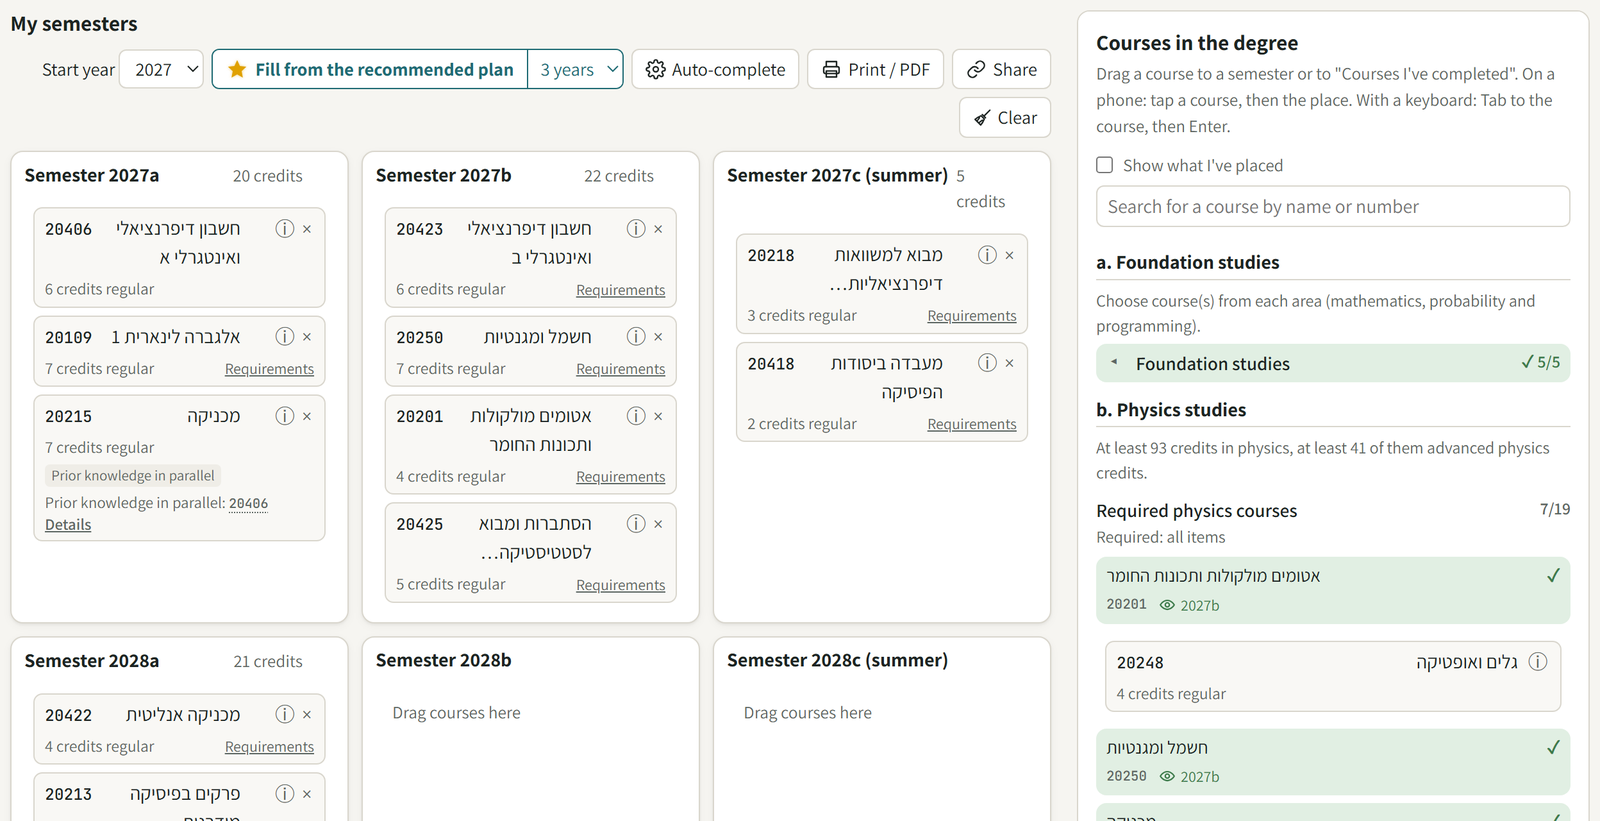
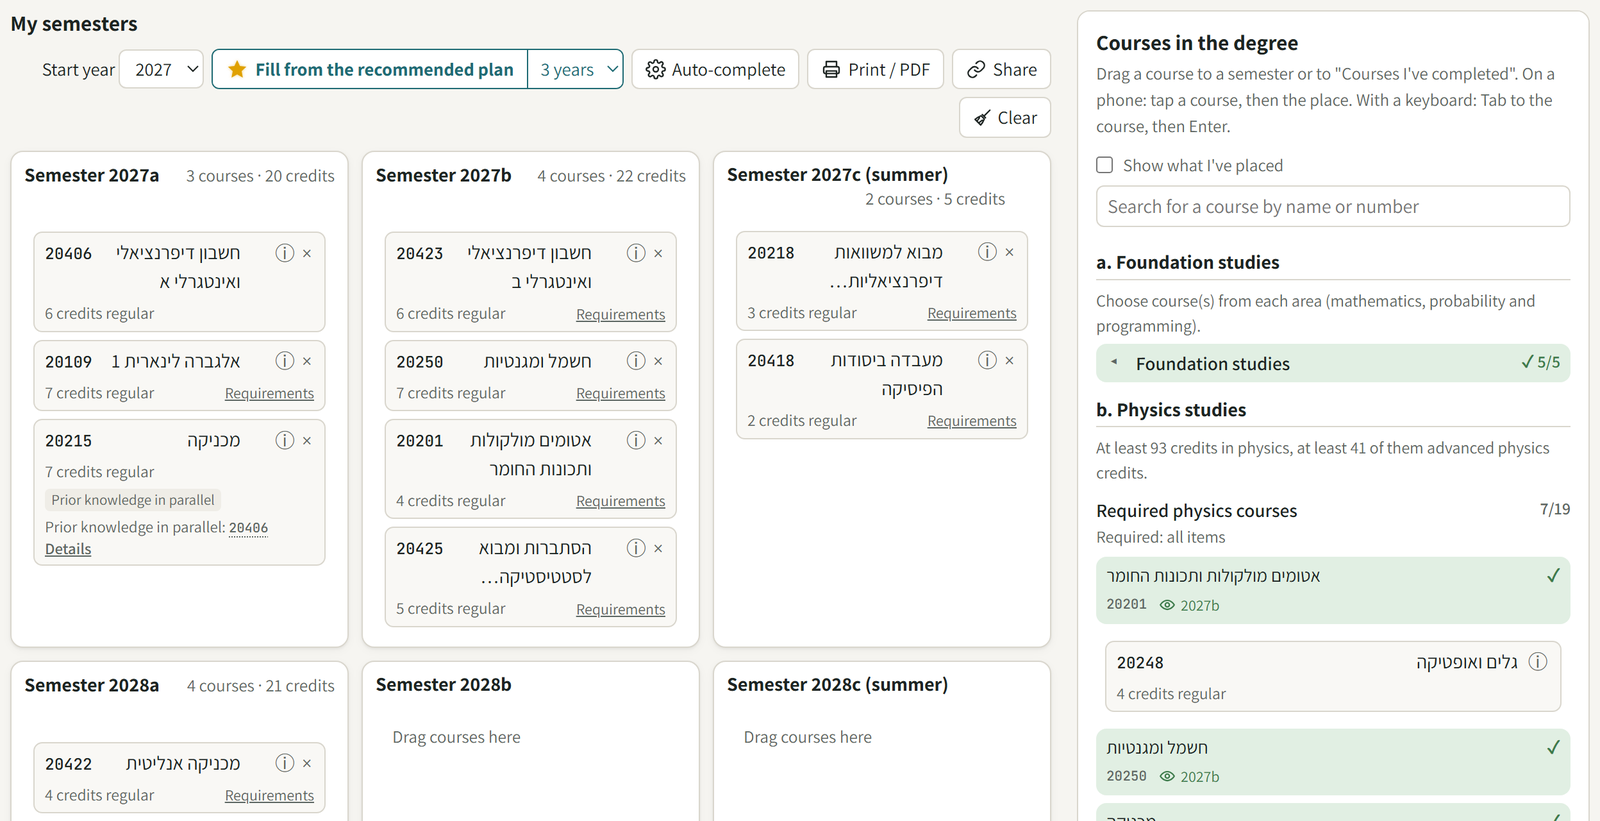
Course counts in the semester headers; the prep workshop above the foundation courses in the tree

Changed region(s): [[0.0, 0.1827, 0.6562, 1.0], [0.0312, 0.1827, 0.2188, 0.7004], [0.4688, 0.1827, 0.6562, 0.5481]]

diff --git a/lang-ar.js b/lang-ar.js
@@ -97,7 +97,8 @@ I18N.ar = {
  "לפחות {0} מתוך:": "على الأقل {0} من:",
  "או": "أو",
  "במקום בגרות (רק למי שצריך)": "بدل البجروت (فقط لمن يحتاج)",
- "הדרישה: {0} - מקנה פטור מן הקורסים המופיעים למטה. ניתן לסמן את הפטור ב\"רקע ודרישות\". מי שאינו עומד בדרישה מחויב בקורסים הבאים:": "المتطلب: {0} - يمنح إعفاءً من المساقات الواردة أدناه. يمكن تحديد الإعفاء في \"الخلفية والمتطلبات\". من لا يستوفي المتطلب ملزم بالمساقات التالية:",
+ "הדרישה: {0} - מקנה פטור מן הקורסים המופיעים למטה. ניתן לסמן את הפטור ב\"רקע ודרישות\".": "المتطلب: {0} - يمنح إعفاءً من المساقات الواردة أدناه. يمكن تحديد الإعفاء في \"الخلفية والمتطلبات\".",
+ "מי שאינו עומד בדרישה מחויב בקורסים הבאים:": "من لا يستوفي المتطلب ملزم بالمساقات التالية:",
  "יש אפשרויות גם בפריטים אחרים": "توجد خيارات أيضًا في بنود أخرى",
  "אפשר גם {0} מחוץ לתכנית": "ممكن أيضًا {0} خارج الخطة",
  "{0} ל-{1}: ": "{0} لـ{1}: ",
@@ -413,6 +414,7 @@ I18N.ar = {
  "בחלון הקורס בקורסי הפיסיקה: מרכז/ת ההוראה עם האימייל, ושורה חדשה \"אחראי/ת אקדמי/ת\".": "في نافذة المساق في مساقات الفيزياء: مركّز/ة التدريس مع البريد الإلكتروني، وسطر جديد \"المسؤول/ة الأكاديمي/ة\".",
  "קישור לרשימת הקורסים לבחירה חופשית, בצעד \"להשלים נ\"ז\", וקישור \"הסבר\" ללומדה למניעת הטרדה מינית בדרישות הכלליות.": "رابط لقائمة المساقات للاختيار الحر في خطوة \"استكمال النقاط\"، ورابط \"شرح\" للومدة منع التحرش الجنسي في المتطلبات العامة.",
  "בעזרה (\"?\"): צילום מסך לשלב \"מסדרים ונועלים\", וכל הצילומים עודכנו.": "في المساعدة (\"?\"): لقطة شاشة لخطوة \"الترتيب والتثبيت\"، وتم تحديث جميع اللقطات.",
+ "בכותרת של כל סמסטר, ושל \"קורסים שכבר עשיתי\", גם מספר הקורסים, ליד הנ\"ז.": "في عنوان كل فصل، وعنوان \"مساقات أنهيتها\"، يظهر أيضًا عدد المساقات بجانب النقاط.",
  "השם והלוגו של האוניברסיטה הפתוחה שייכים לאוניברסיטה הפתוחה. חלק מהאייקונים מבוססים על Tabler Icons ועל Feather/Lucide": "اسم الجامعة المفتوحة وشعارها ملك للجامعة المفتوحة. بعض الأيقونات مبنية على Tabler Icons وعلى Feather/Lucide",
  "רישיונות": "التراخيص",
  "הצג מה שכבר שיבצתי": "اعرض ما أدرجتُه",

diff --git a/lang-en.js b/lang-en.js
@@ -97,7 +97,8 @@ I18N.en = {
  "לפחות {0} מתוך:": "At least {0} of:",
  "או": "or",
  "במקום בגרות (רק למי שצריך)": "Instead of matriculation (only if needed)",
- "הדרישה: {0} - מקנה פטור מן הקורסים המופיעים למטה. ניתן לסמן את הפטור ב\"רקע ודרישות\". מי שאינו עומד בדרישה מחויב בקורסים הבאים:": "The requirement: {0} - grants an exemption from the courses below. The exemption can be ticked in \"Background and requirements\". Students who do not meet the requirement must take the following courses:",
+ "הדרישה: {0} - מקנה פטור מן הקורסים המופיעים למטה. ניתן לסמן את הפטור ב\"רקע ודרישות\".": "The requirement: {0} - grants an exemption from the courses below. The exemption can be ticked in \"Background and requirements\".",
+ "מי שאינו עומד בדרישה מחויב בקורסים הבאים:": "Students who do not meet the requirement must take the following courses:",
  "יש אפשרויות גם בפריטים אחרים": "There are options in other items too",
  "אפשר גם {0} מחוץ לתכנית": "{0} outside the program is also possible",
  "{0} ל-{1}: ": "{0} for {1}: ",
@@ -413,6 +414,7 @@ I18N.en = {
  "בחלון הקורס בקורסי הפיסיקה: מרכז/ת ההוראה עם האימייל, ושורה חדשה \"אחראי/ת אקדמי/ת\".": "In the course window of the physics courses: the teaching coordinator with the email, and a new line, \"Academic head\".",
  "קישור לרשימת הקורסים לבחירה חופשית, בצעד \"להשלים נ\"ז\", וקישור \"הסבר\" ללומדה למניעת הטרדה מינית בדרישות הכלליות.": "A link to the list of courses for free electives, in the \"complete the credits\" step, and an \"explanation\" link for the sexual harassment prevention module in the general requirements.",
  "בעזרה (\"?\"): צילום מסך לשלב \"מסדרים ונועלים\", וכל הצילומים עודכנו.": "In the help (\"?\"): a screenshot for the \"arrange and lock\" step, and all the screenshots were updated.",
+ "בכותרת של כל סמסטר, ושל \"קורסים שכבר עשיתי\", גם מספר הקורסים, ליד הנ\"ז.": "The header of every semester, and of \"Courses I've completed\", also shows the number of courses, next to the credits.",
  "השם והלוגו של האוניברסיטה הפתוחה שייכים לאוניברסיטה הפתוחה. חלק מהאייקונים מבוססים על Tabler Icons ועל Feather/Lucide": "The Open University's name and logo belong to the Open University. Some icons are based on Tabler Icons and Feather/Lucide",
  "רישיונות": "licenses",
  "הצג מה שכבר שיבצתי": "Show what I've placed",

diff --git a/index.html b/index.html
@@ -7,10 +7,10 @@
 <link rel="preconnect" href="https://fonts.googleapis.com">
 <link rel="preconnect" href="https://fonts.gstatic.com" crossorigin>
 <link href="https://fonts.googleapis.com/css2?family=Assistant:wght@400;600;700&family=JetBrains+Mono:wght@500&display=swap" rel="stylesheet">
-<link rel="stylesheet" href="style.css?v=605c0167">
+<link rel="stylesheet" href="style.css?v=6ff113f6">
 <script src="i18n.js?v=96785de3"></script>
-<script src="lang-ar.js?v=a3e95ae9"></script>
-<script src="lang-en.js?v=b67f7e93"></script>
+<script src="lang-ar.js?v=faa4cc07"></script>
+<script src="lang-en.js?v=38141163"></script>
 <script>
   // light by default; dark only when the user chose it with the button (set before paint, so no flash)
   try { if (localStorage.getItem("physics-planner-v1:theme") === "dark") document.documentElement.dataset.theme = "dark"; } catch (e) { /* no storage */ }
@@ -200,16 +200,16 @@
 <script src="js/courses.js?v=73579742"></script>
 <script src="js/degree.js?v=ca70ad62"></script>
 <script src="js/fill.js?v=e9532bc6"></script>
-<script src="js/cards.js?v=a4cef9b4"></script>
-<script src="js/render.js?v=149f544e"></script>
-<script src="js/tree.js?v=9f36e044"></script>
+<script src="js/cards.js?v=9eb38cd3"></script>
+<script src="js/render.js?v=38e6422b"></script>
+<script src="js/tree.js?v=5038af31"></script>
 <script src="js/windows.js?v=b39bd6c6"></script>
 <script src="js/keyboard.js?v=a5a988ed"></script>
 <script src="js/find.js?v=b42e80bb"></script>
 <script src="js/interaction.js?v=920cd616"></script>
 <script src="js/share.js?v=dcc863a2"></script>
 <script src="js/print.js?v=1e4375b5"></script>
-<script src="js/help.js?v=a83433a6"></script>
+<script src="js/help.js?v=37e50bb2"></script>
 <script src="js/main.js?v=5076d6b9"></script>
 </body>
 </html>

diff --git a/js/render.js b/js/render.js
@@ -402,8 +402,7 @@ function renderDone() {
   const zone = $("#done");
   zone.dataset.empty = T("גוררים לכאן קורסים שכבר סיימתם");
   zone.replaceChildren(...state.done.map((n) => chip(n, "done")));
-  const credits = state.done.reduce((s, n) => s + ((DATA.courses[n] || {}).credits || 0), 0);
-  $("#done-sum").textContent = state.done.length ? T`${credits} נ"ז` : "";
+  $("#done-sum").textContent = sumText(state.done);
   $("#clear-done").hidden = !state.done.some((n) => !isLocked(n));
   $("#clear-semesters").hidden = !state.semesters.flat().some((n) => !isLocked(n));
 }
@@ -418,7 +417,6 @@ function renderSemesters() {
     ids.length % 3 ? T("השלמת השנה האחרונה") : T`הוספת שנה (${nextYear})`);
   $("#semesters").replaceChildren(...ids.map((id, i) => {
     const list = state.semesters[i];
-    const credits = list.reduce((s, n) => s + ((DATA.courses[n] || {}).credits || 0), 0);
     const blocked = isBlockedSemester(i);
     const zone = el("ul", { class: "zone", "data-zone": `s${i}`, "data-empty": blocked ? T("חסום: לא משבצים כאן קורסים") : T("גוררים לכאן קורסים") }, list.map((n) => chip(n, i)));
     markZone(zone, i);
@@ -426,7 +424,7 @@ function renderSemesters() {
       el("div", { class: "zone-head" },
         el("h3", { text: T`סמסטר ${semesterLabel(id)}` }),
         blocked ? null : putHere(zone),
-        el("span", { class: "zone-sum", text: list.length ? T`${credits} נ"ז` : "" }),
+        el("span", { class: "zone-sum", text: sumText(list) }),
         blockButton(i, id),
         i === last && last > 0 ? trashButton(id) : null),
       zone);

diff --git a/js/tree.js b/js/tree.js
@@ -90,8 +90,12 @@ function renderTree() {
     return el("div", { class: "section basics", id: `group-${id}` },
       // a formal title, the details under it (guy, 2026-11-08; was "במקום בגרות (רק למי שצריך)")
       el("h3", { text: T(`עמידה בדרישות ה${b.name_he || b.name}`) }),
-      el("div", { class: "desc", text: T`הדרישה: ${backgroundWhat(b)} - מקנה פטור מן הקורסים המופיעים למטה. ניתן לסמן את הפטור ב"רקע ודרישות". מי שאינו עומד בדרישה מחויב בקורסים הבאים:` }),
-      body, prep); // the courses right after "...בקורסים הבאים:", the optional workshop under them (guy, 2026-11-08)
+      el("div", { class: "desc", text: T`הדרישה: ${backgroundWhat(b)} - מקנה פטור מן הקורסים המופיעים למטה. ניתן לסמן את הפטור ב"רקע ודרישות".` }),
+      // the optional workshop before the courses it prepares for (guy, 2026-11-11), and the courses still right after
+      // "...בקורסים הבאים:" (guy, 2026-11-08)
+      prep,
+      el("div", { class: "desc", text: T("מי שאינו עומד בדרישה מחויב בקורסים הבאים:") }),
+      body);
   });
   $("#tree").replaceChildren(...basics, ...program.sections.filter((section) => section.groups.length).map((section) => {
     const groups = section.groups.map((group) => {

diff --git a/style.css b/style.css
@@ -209,7 +209,7 @@ select, input[type="search"] {
 }
 .zone-card { padding: 10px 12px; margin-bottom: 16px; }
 .zone-head { display: flex; justify-content: space-between; align-items: baseline; gap: 8px; margin-bottom: 8px; }
-.zone-sum { color: var(--muted); font-size: 0.85rem; }
+.zone-sum { color: var(--muted); font-size: 0.85rem; white-space: nowrap; }
 .zone-tools { display: inline-flex; align-items: center; gap: 10px; }
 /* a choice from a long list (the broadening course), folded */
 .long-list .alt-label { margin: 0 0 6px; }
@@ -394,7 +394,7 @@ button.history:disabled:hover { border-color: var(--line); }
 .semester .zone-head .block-semester:hover, .semester .zone-head .block-semester.on { color: var(--ink); }
 .semester .zone-head h3 { white-space: nowrap; }
 /* the title at one end; the credits, block and trash together at the other (spread out, the block icon stood mid-way) */
-.semester .zone-head { justify-content: flex-start; gap: 6px; }
+.semester .zone-head { justify-content: flex-start; gap: 6px; flex-wrap: wrap; row-gap: 0; } /* a narrow semester: the sum goes below the title, whole */
 .semester .zone-head .zone-sum { margin-inline-start: auto; }
 /* like the open lock on the cards: shown on hover or keyboard focus, always on a touch screen or when blocked
    (transparent, not hidden, so the keyboard still reaches it) */

diff --git a/js/help.js b/js/help.js
@@ -47,6 +47,7 @@ function showHelp() {
 // a date the browser has not opened yet. Every push with such a change adds a line here, in the three languages
 const WHATS_NEW = [
   { date: "2026-11-11", items: [
+    T("בכותרת של כל סמסטר, ושל \"קורסים שכבר עשיתי\", גם מספר הקורסים, ליד הנ\"ז."),
     T("בחלון הקורס בקורסי הפיסיקה: מרכז/ת ההוראה עם האימייל, ושורה חדשה \"אחראי/ת אקדמי/ת\"."),
     T("קישור לרשימת הקורסים לבחירה חופשית, בצעד \"להשלים נ\"ז\", וקישור \"הסבר\" ללומדה למניעת הטרדה מינית בדרישות הכלליות."),
     T("בעזרה (\"?\"): צילום מסך לשלב \"מסדרים ונועלים\", וכל הצילומים עודכנו."),

diff --git a/js/cards.js b/js/cards.js
@@ -165,6 +165,14 @@ function prepLine(b) {
       T(" ובדקו אם כדאי לכם להירשם לסדנה.")] : null);
 }
 
+// the head of a semester or of "done": how many courses and their credits, "3 קורסים · 20 נ"ז" (guy, 2026-11-11);
+// the full credits, before overlap cuts, since it shows how much there is to study. Empty for an empty list
+function sumText(list) {
+  if (!list.length) return "";
+  const credits = list.reduce((s, n) => s + ((DATA.courses[n] || {}).credits || 0), 0);
+  return `${list.length === 1 ? T("קורס 1") : T`${list.length} קורסים`} · ${T`${credits} נ"ז`}`;
+}
+
 // ---------- course numbers that jump to the course ----------
 
 // a course number in a window (conditions, overlaps...) jumps to the course where it is now, in the plan or in the
